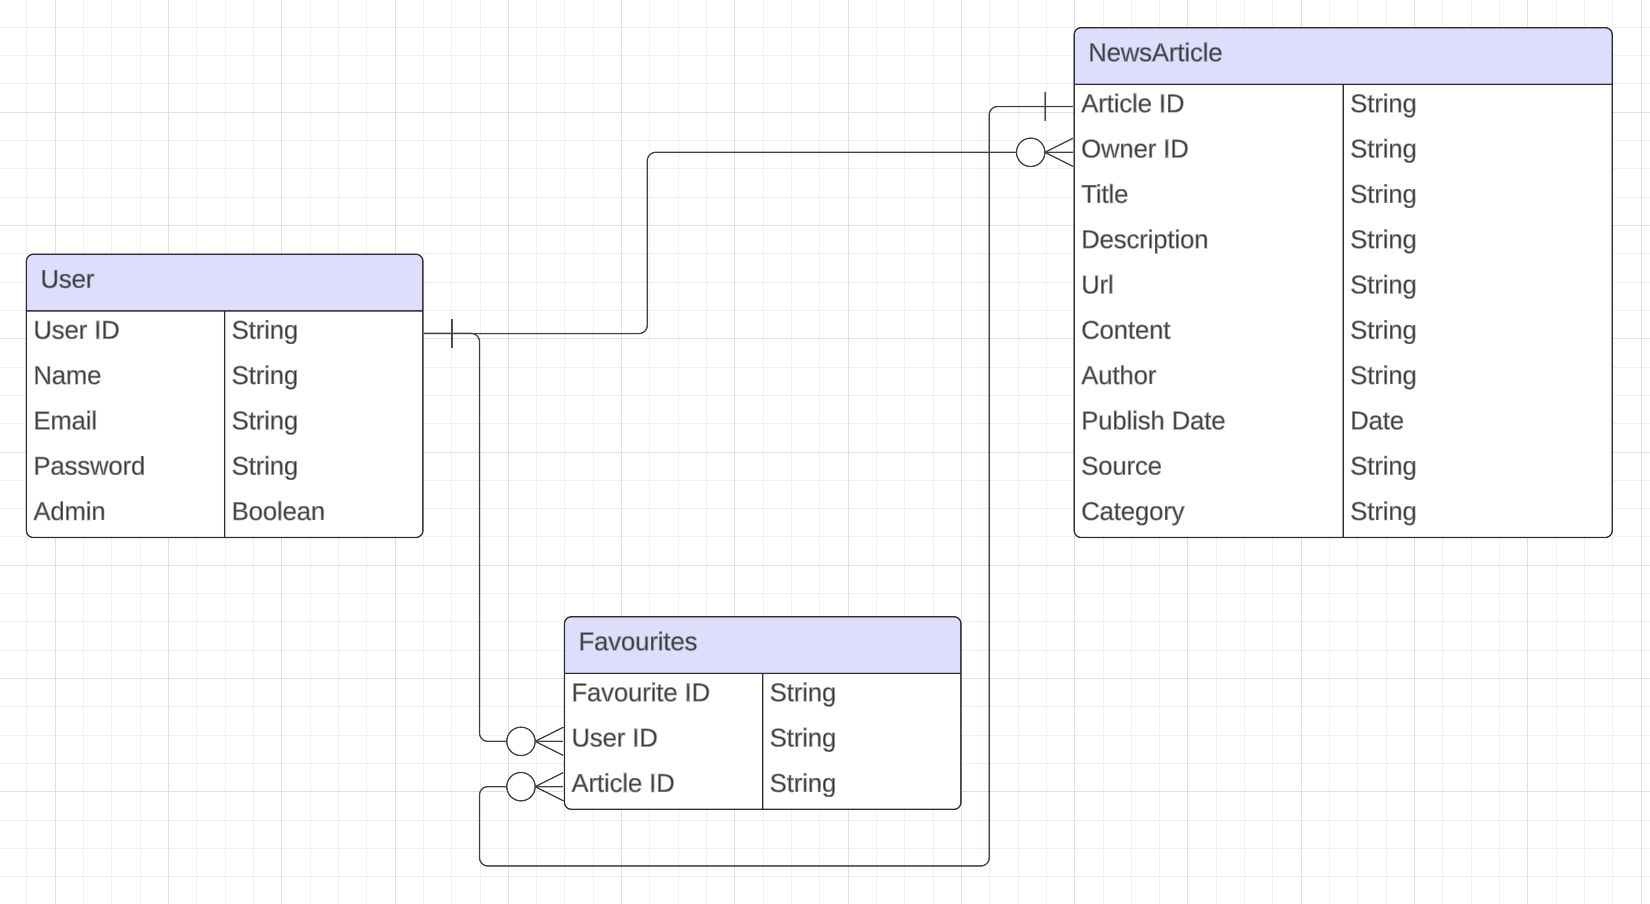
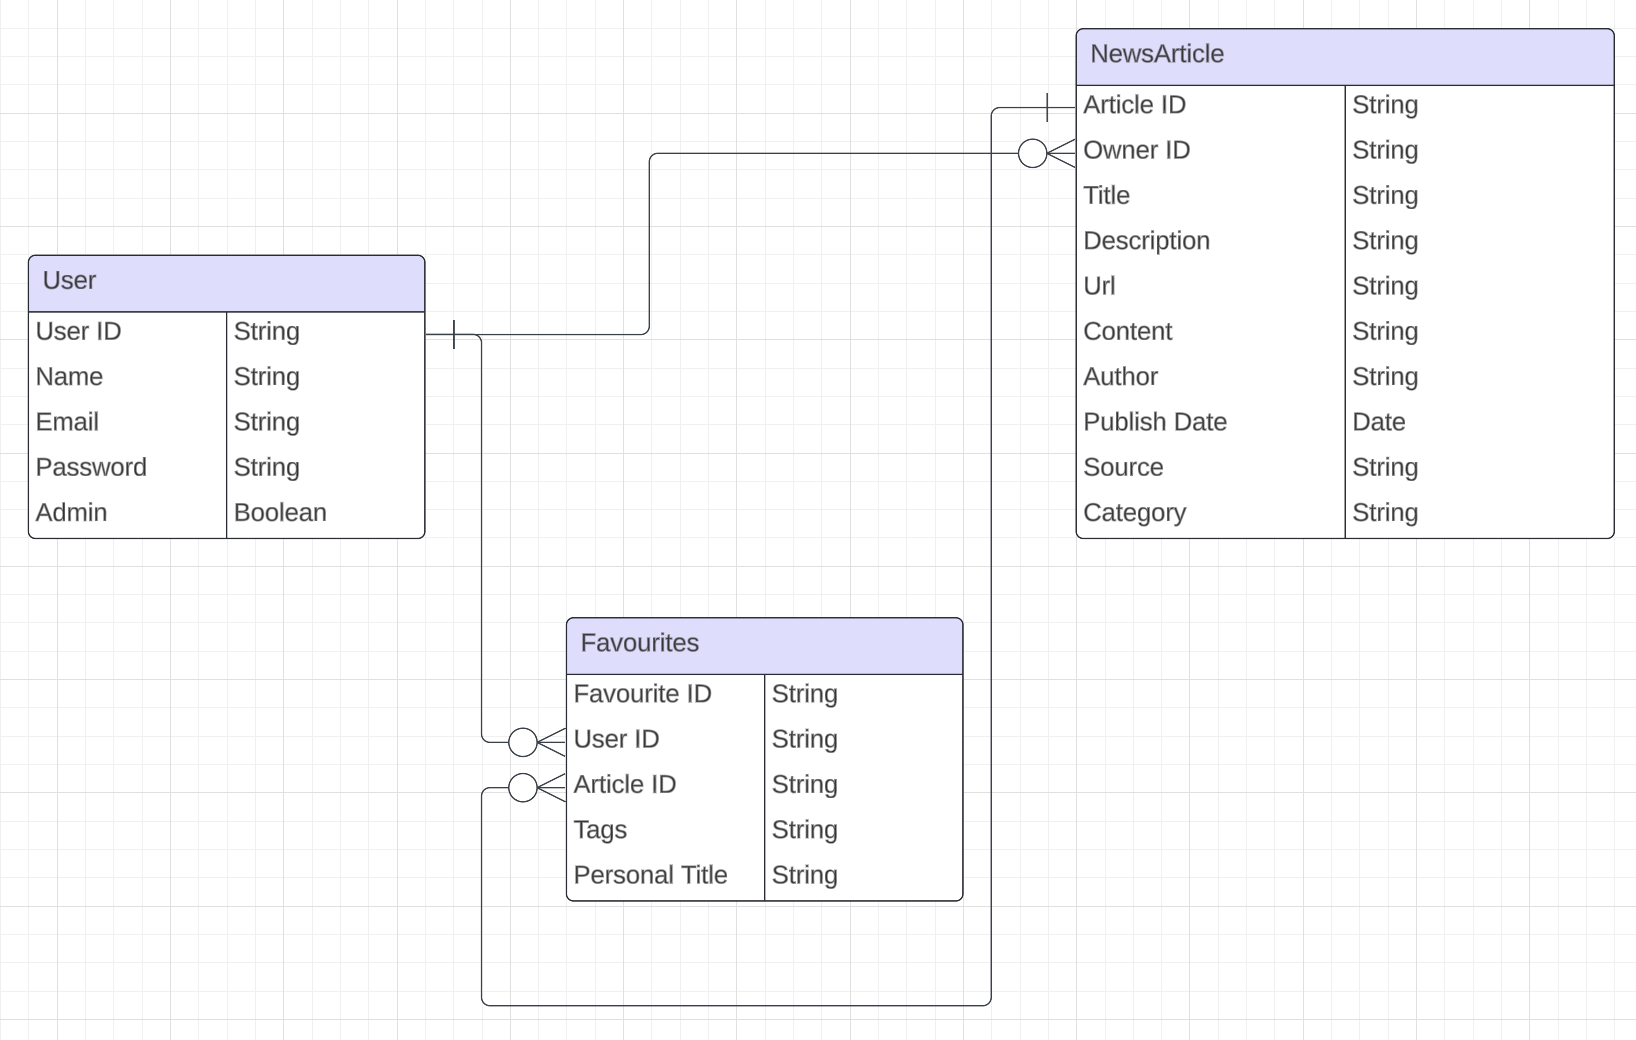
Updated favourites model

diff --git a/README.md b/README.md
@@ -110,4 +110,6 @@ To install all dependencies, run
 | Favourite ID | Unique identifier for the news article (Primary Key) |
 | User ID | Identifier for the user who liked the news articles (Foreign Key linked to User) |
 | Article ID | News Article ID (Foreign Key linked to NewsArticle) |
+| Tags | List of tags added by user for categorization and identification |
+| Personal Title | Title added by user for a liked news article |
 
